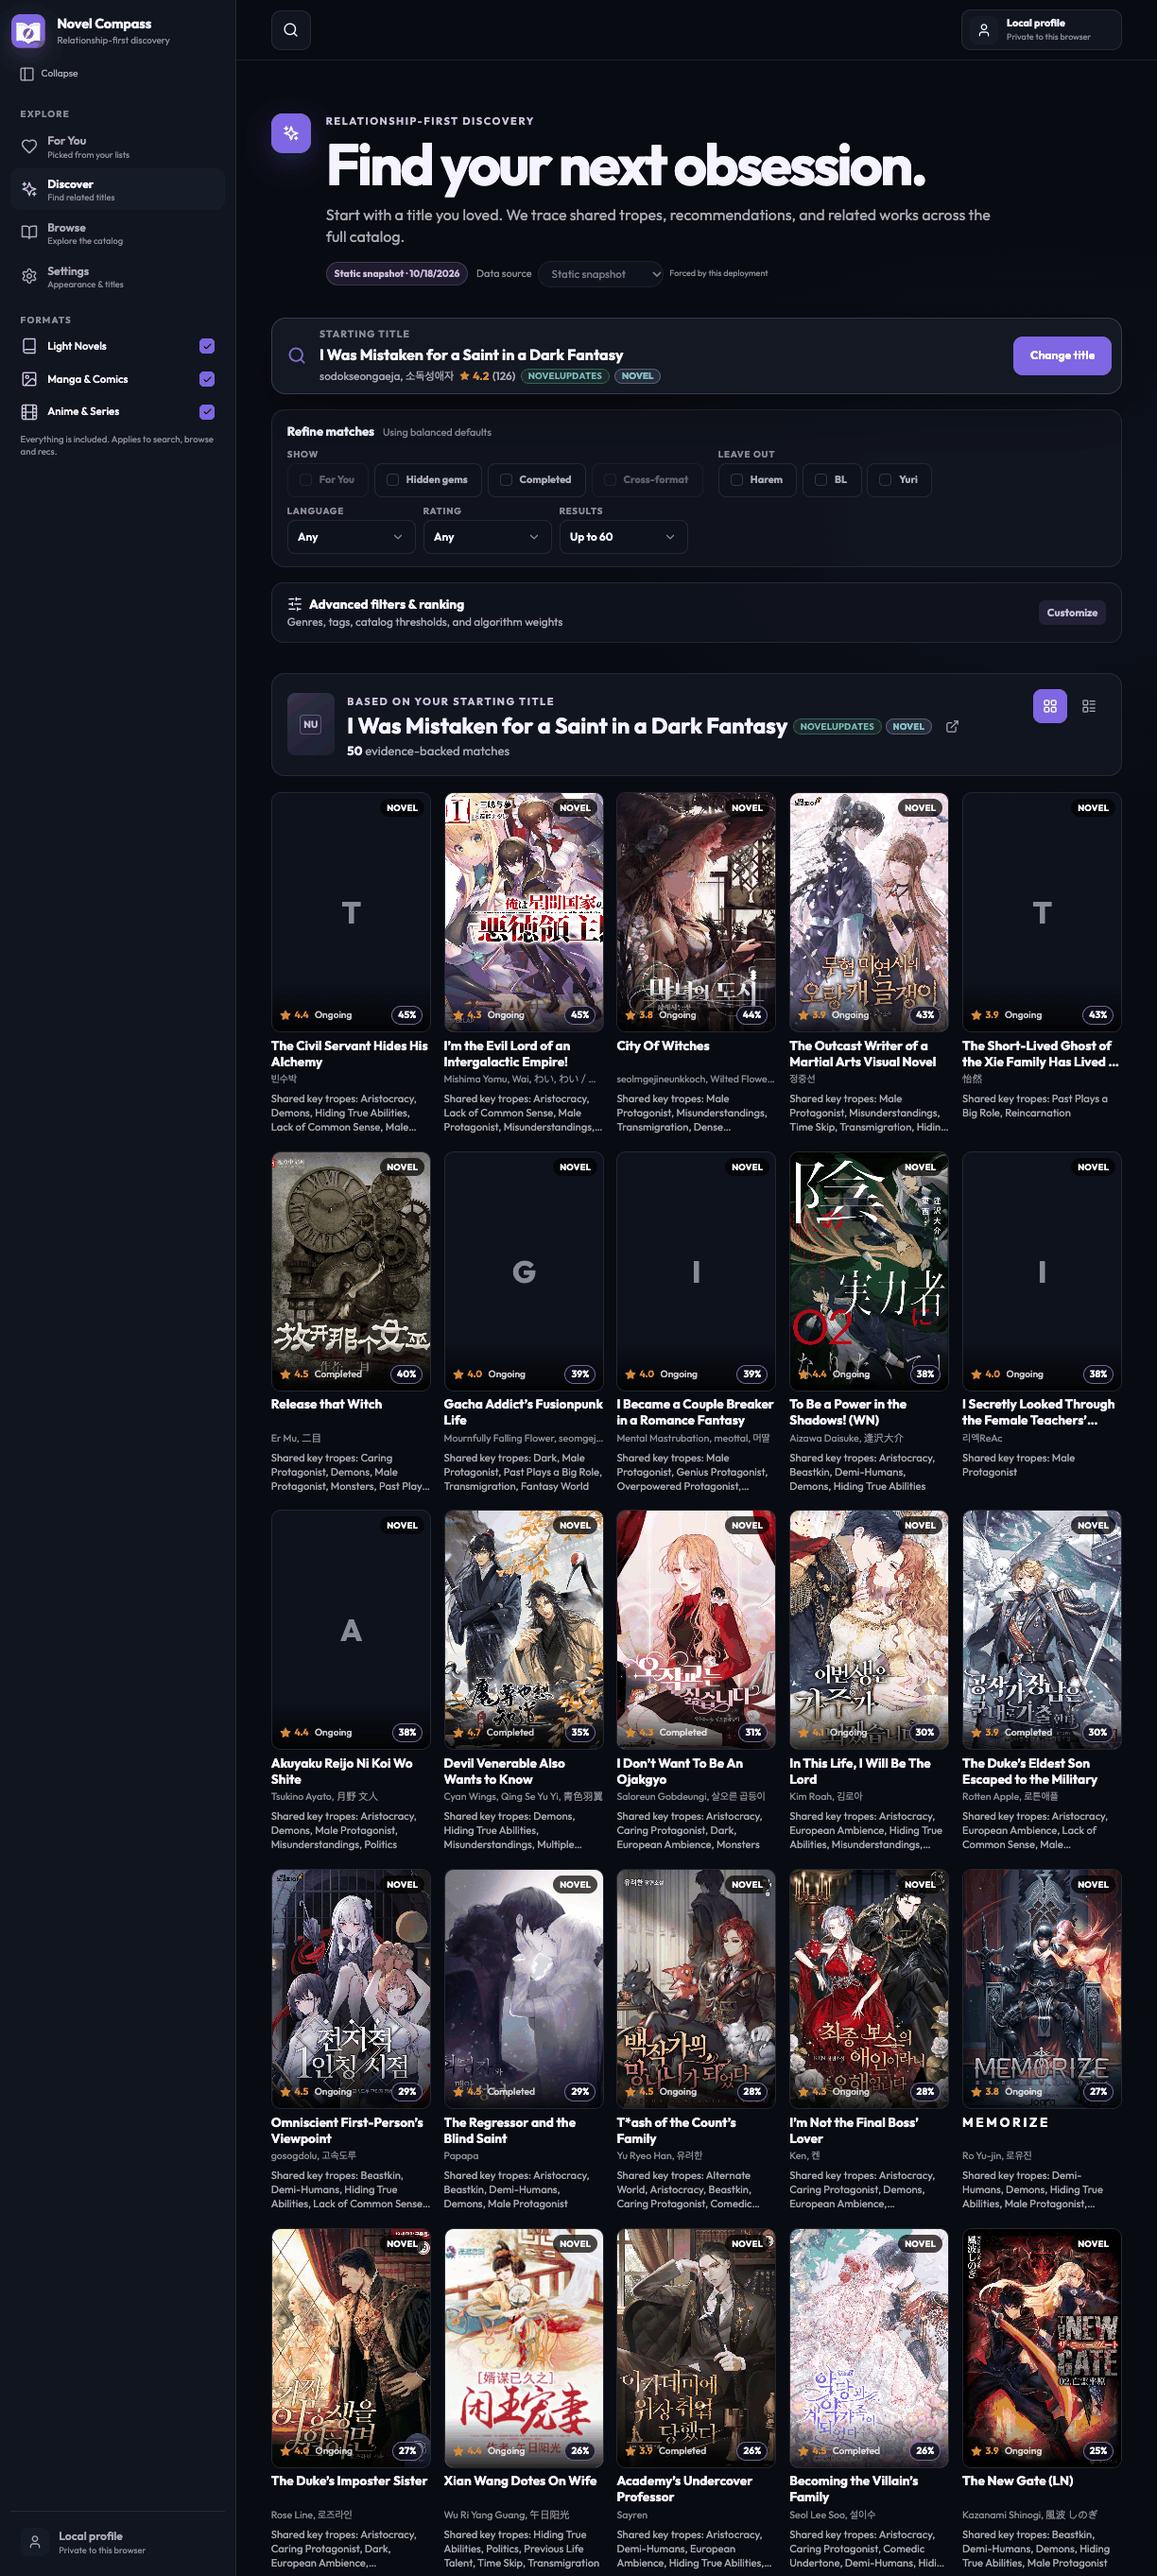
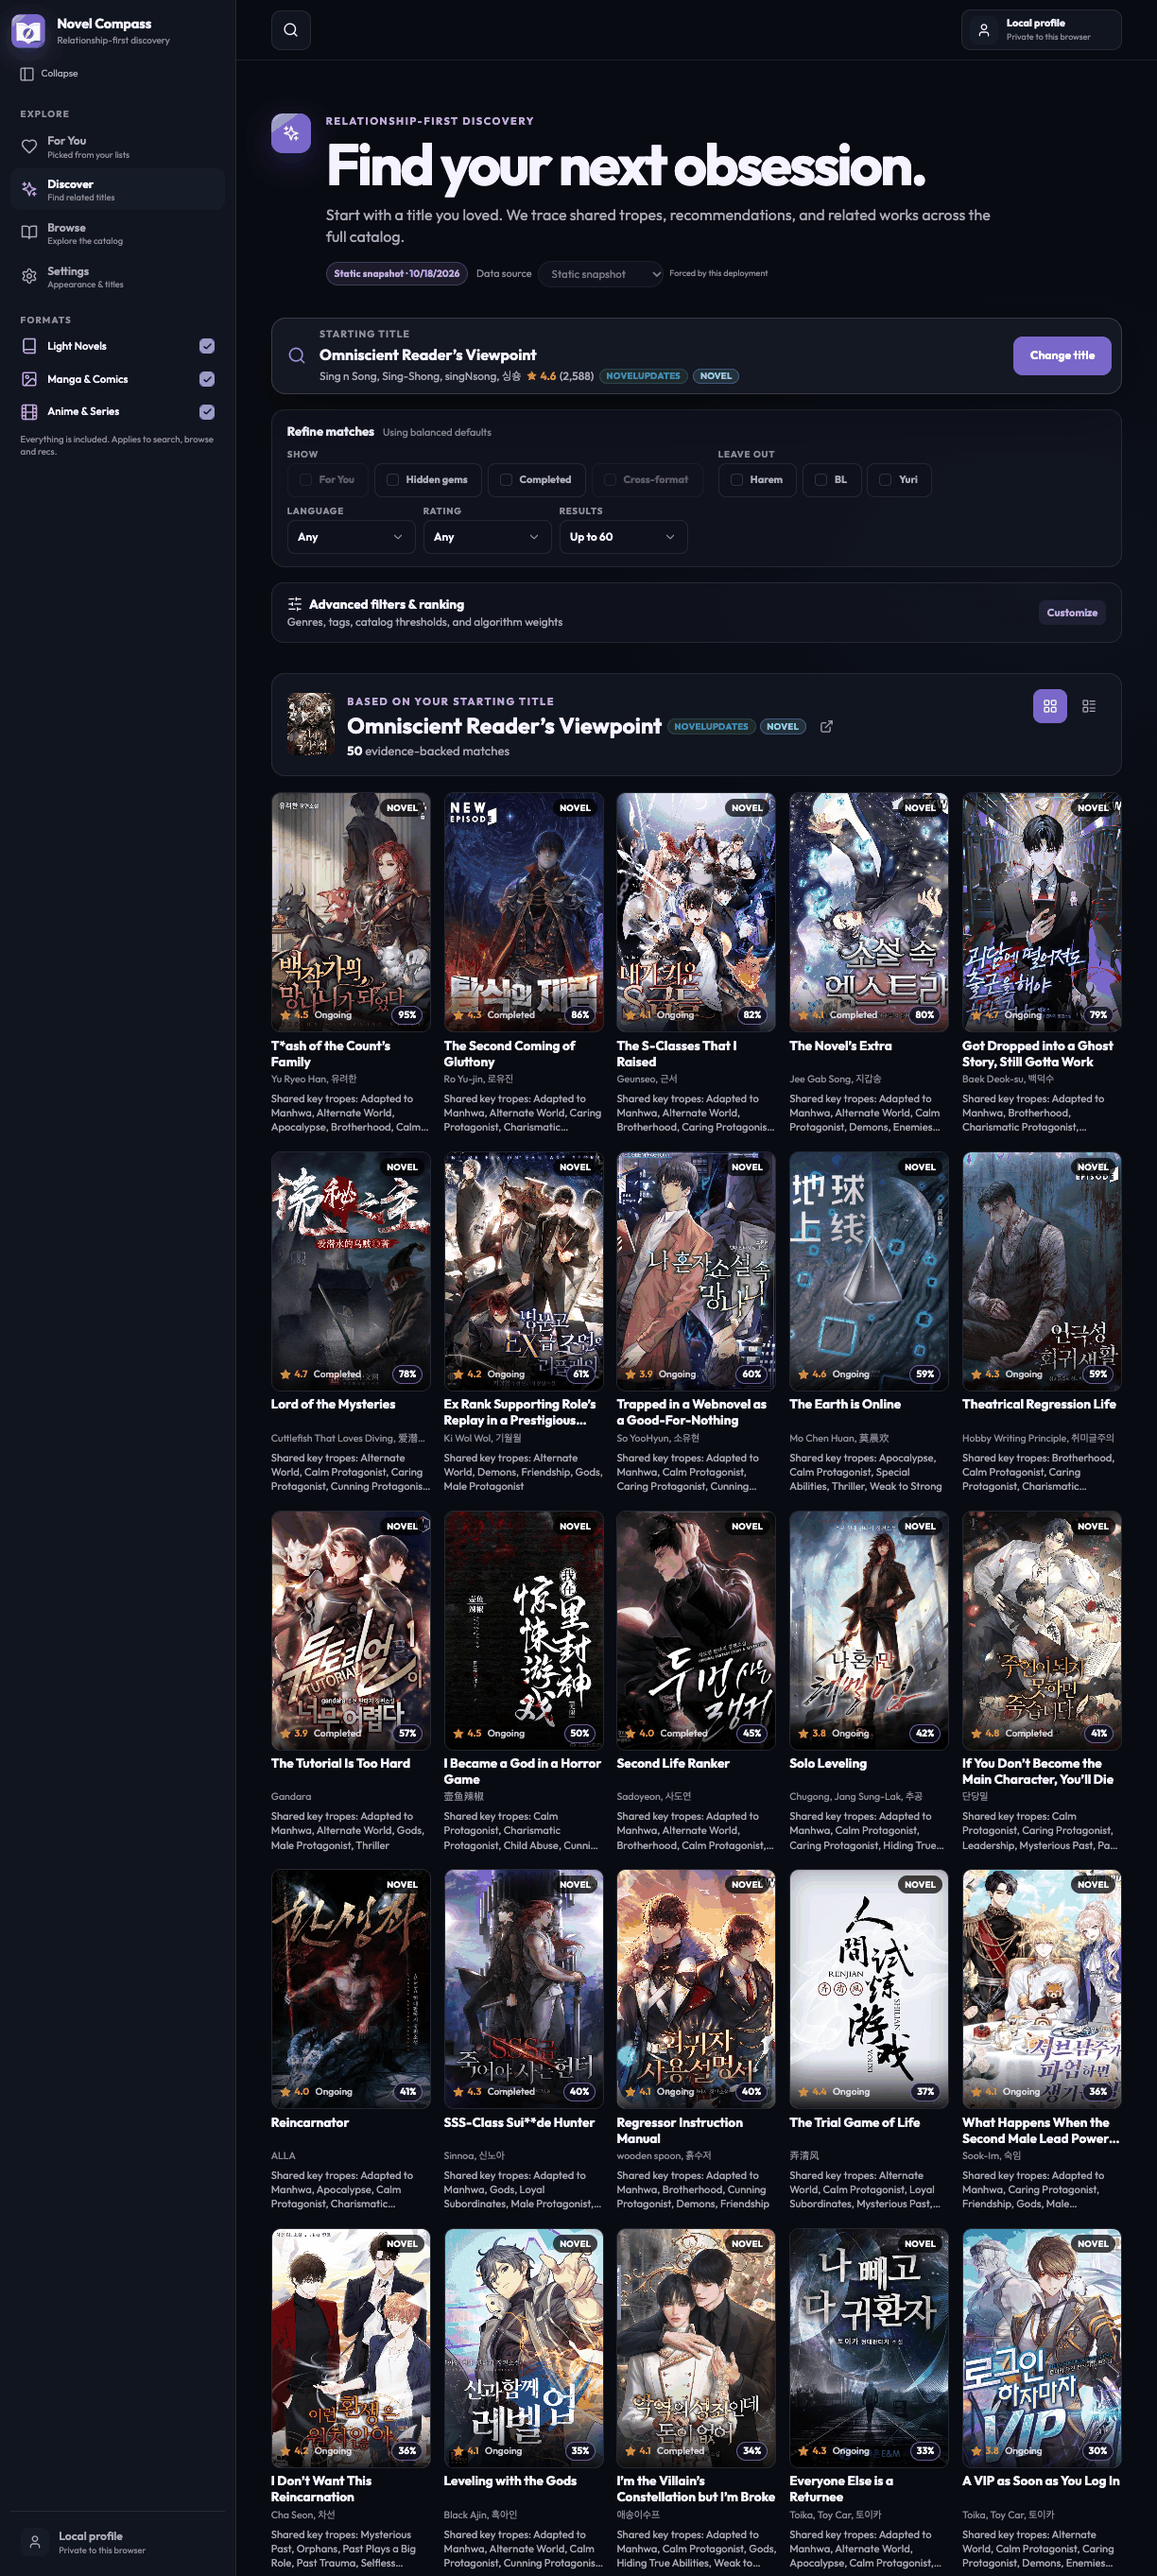
docs: discover seed 17672 and novels-only browse; clarify web-app screenshots

diff --git a/extension/README.md b/extension/README.md
@@ -5,14 +5,17 @@ site's live links, releases, reviews, rankings, lists, and account actions.
 
 ## Screenshots
 
-Screenshots of the [Novel Compass web app](https://cbangera2.github.io/NovelCompass/).
+These are screenshots of the [Novel Compass web app](https://cbangera2.github.io/NovelCompass/),
+which this extension complements: the extension brings the same navigation and
+styling to Novel Updates pages, while the web app provides discovery, browsing,
+and series detail views. They are not captures of the extension itself.
 
 ### Discover
 
 Relationship-first discovery: pick a starting title you loved and the
 recommendation engine traces shared tropes, related works, and community recs
 across the full catalog. Shown with refine filters and the first rows of
-evidence-backed matches for a seed title.
+evidence-backed matches for a seed title (Omniscient Reader's Viewpoint).
 
 ![Discover view of the Novel Compass web app with filters and a grid of matches for a seed title](../docs/screenshots/web/web-discover.png)
 
@@ -27,10 +30,10 @@ the overview, reader vote breakdown, and related titles continue down the page
 ### Browse the catalog
 
 Every title in the snapshot, with quick format and ranking chips plus sort,
-language, and rating filters. Shown with the Anime format selected, sorted by
-most popular.
+language, and rating filters. Shown scoped to light novels (Novels only),
+sorted by most popular.
 
-![Browse view of the Novel Compass web app with filters and a grid of popular anime titles](../docs/screenshots/web/web-browse.png)
+![Browse view of the Novel Compass web app with filters and a grid of popular light novels](../docs/screenshots/web/web-browse.png)
 
 Screenshots contain page content only. Personal account details are excluded.
 
